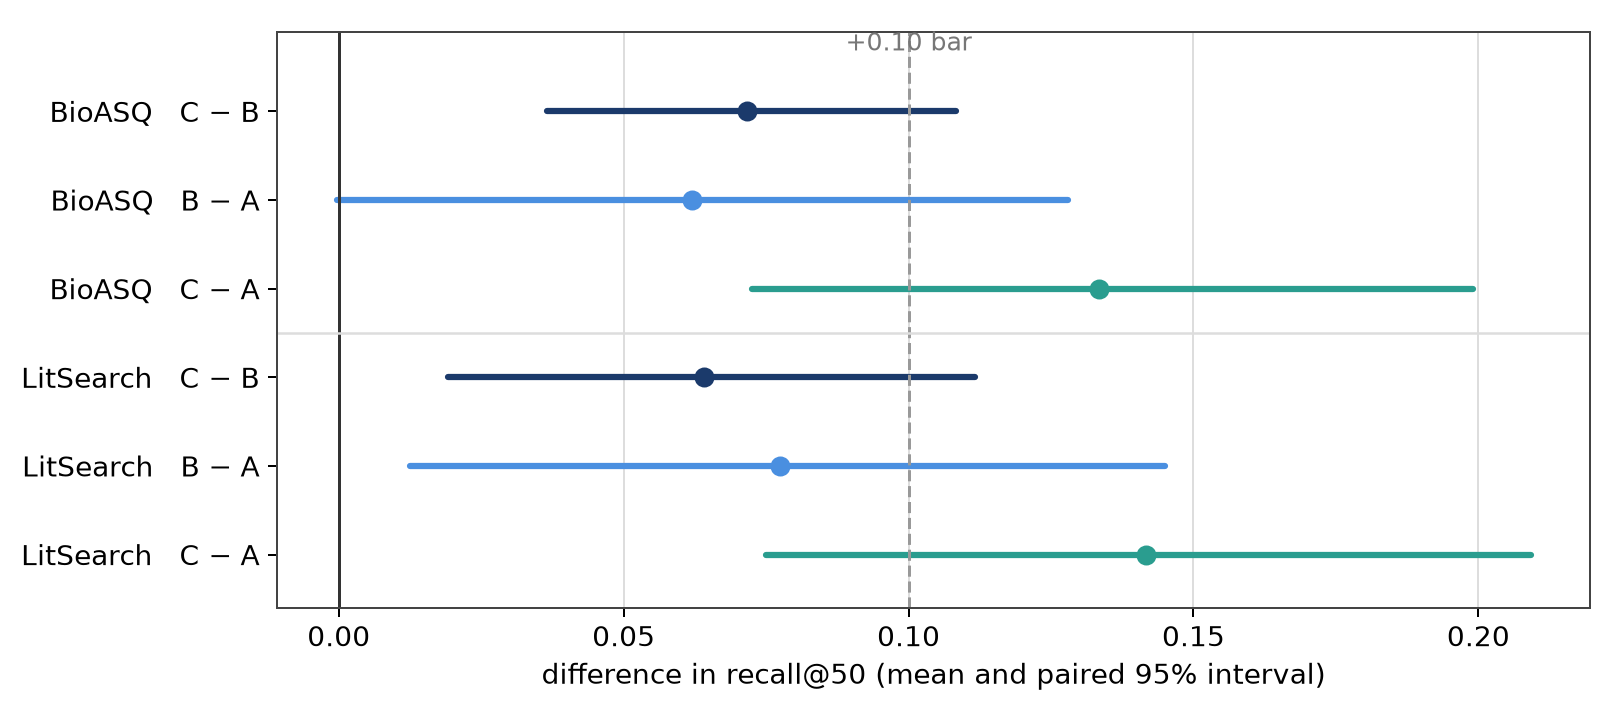
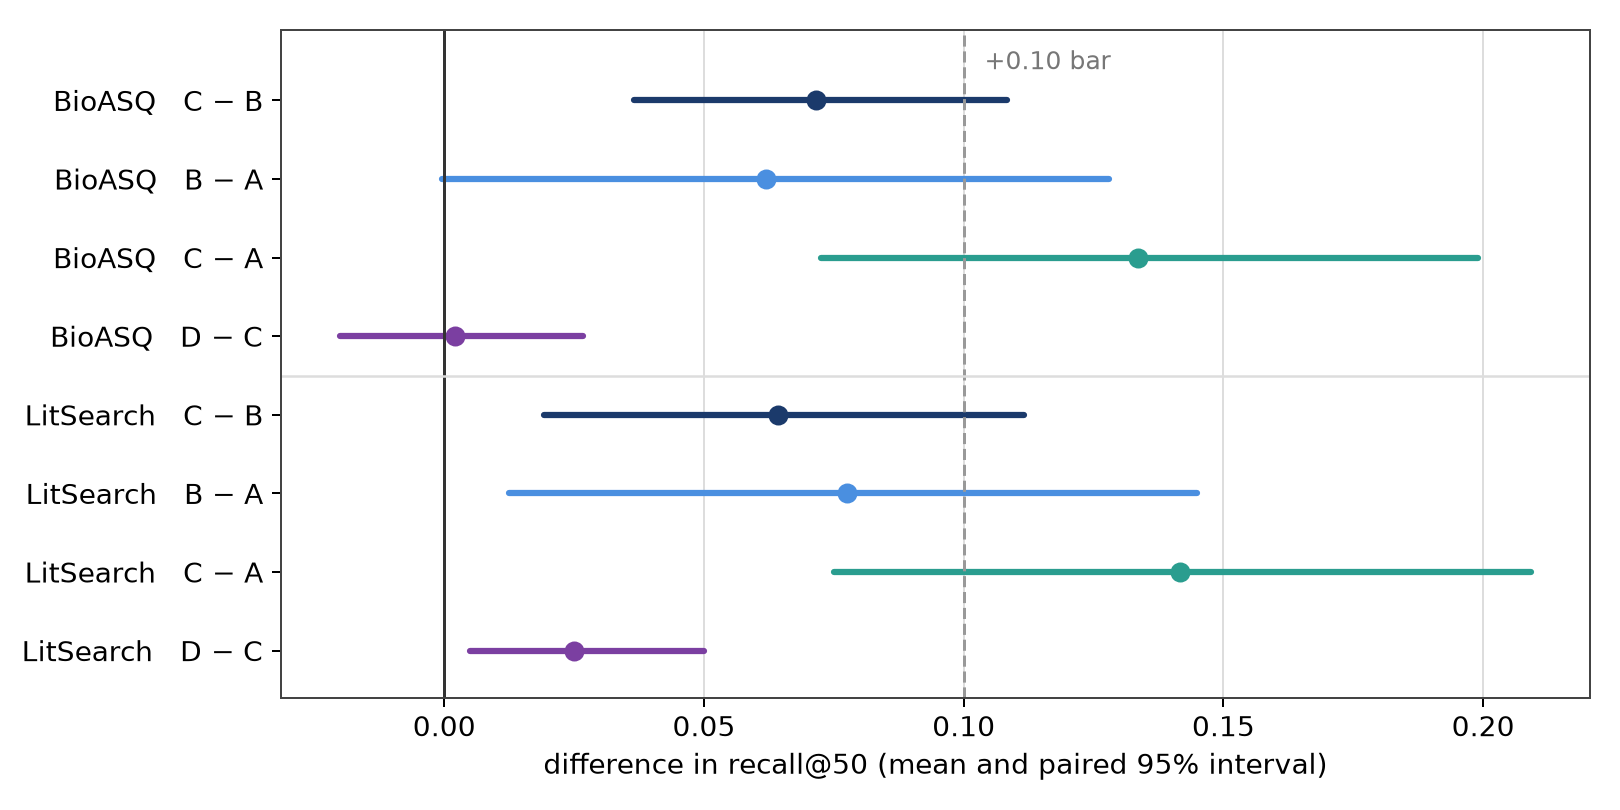
The benchmark page adds today's ranking replayed on the stored pools: close to the earlier reranked list on BioASQ, about 0.025 higher at 50 results on LitSearch

diff --git a/scripts/benchmark/figures.py b/scripts/benchmark/figures.py
@@ -1,10 +1,10 @@
-"""Draw the two figures in docs/benchmark.md from the stored scoring output of each set's run.
+"""Draw the benchmark figures from the stored runs and the later ranking replay.
 
     uv run --with matplotlib python scripts/benchmark/figures.py
 
-matplotlib is not a project dependency, so the command above brings it in for this run only. Every number is read
-from notes/<set>/report.json; nothing is typed in here except Elicit's published BioASQ figures, which have no run
-of ours behind them.
+matplotlib is not a project dependency, so the command above brings it in for this run only. Benchmark values are read
+from notes/<set>/report.json and the rerank replay's results.json. Only Elicit's published BioASQ figures are typed
+here because they have no run of ours behind them.
 """
 from __future__ import annotations
 
@@ -21,14 +21,16 @@ KS = [10, 20, 50, 100, 200]
 SETS = [("bioasq", "BioASQ (100 questions)"), ("litsearch", "LitSearch (200 questions)")]
 ELICIT = {10: 0.390, 20: 0.483, 50: 0.603, 100: 0.670}  # published, BioASQ only, no figure at 200
 
-GREY, BLUE, NAVY, ORANGE, TEAL = "#9a9a9a", "#4a8fe0", "#1b3a6b", "#e0802f", "#2a9d8f"
+GREY, BLUE, NAVY, ORANGE, TEAL, PURPLE = "#9a9a9a", "#4a8fe0", "#1b3a6b", "#e0802f", "#2a9d8f", "#7b3fa1"
 ARMS = (("openalex", GREY, "o", "A: plain OpenAlex query"),
         ("deixis_fused", BLUE, "s", "B: DEIXIS, reranker off"),
-        ("deixis_rerank", NAVY, "D", "C: DEIXIS, reranker on"))
-# The three contrasts of the gains figure, in the order they are drawn.
+        ("deixis_rerank", NAVY, "D", "C: DEIXIS, reranker on"),
+        ("D", PURPLE, "P", "D: today's ranking, same pool"))
+# Draw the stored contrasts, then the replay contrast.
 CONTRASTS = (("deixis_rerank_minus_deixis_fused", "C − B", NAVY),
              ("deixis_fused_minus_openalex", "B − A", BLUE),
-             ("deixis_rerank_minus_openalex", "C − A", TEAL))
+             ("deixis_rerank_minus_openalex", "C − A", TEAL),
+             ("D-C", "D − C", PURPLE))
 
 plt.rcParams.update({"font.size": 11, "axes.grid": True, "grid.color": "#dddddd",
                      "grid.linewidth": 0.8, "axes.edgecolor": "#444444"})
@@ -39,13 +41,20 @@ def report(name):
     return json.loads((ROOT / "notes" / name / "report.json").read_text())
 
 
-def recall_figure(out):
+def replay():
+    """The ranking replay's stored scores and paired differences."""
+    path = ROOT / "notes/2026-11-13-benchmark-rerank-replay/out/results.json"
+    return json.loads(path.read_text())
+
+
+def recall_figure(out, replay_scores):
     """recall@k for every arm, one panel per set."""
-    fig, axes = plt.subplots(1, 2, figsize=(11, 4.2))
+    fig, axes = plt.subplots(1, 2, figsize=(11, 4.7))
     for ax, (name, title) in zip(axes, SETS):
         scores = report(name)
         for arm, color, marker, label in ARMS:
-            ys = [scores[arm][f"@{k}"] for k in KS]
+            source = replay_scores["sets"][name]["recall"]["D"] if arm == "D" else scores[arm]
+            ys = [source[f"@{k}"] for k in KS]
             ax.plot(range(len(KS)), ys, color=color, marker=marker, markersize=6, linewidth=2, label=label)
         if name == "bioasq":  # the only set Elicit publishes
             ks = [k for k in KS if k in ELICIT]
@@ -63,26 +72,27 @@ def recall_figure(out):
             if label not in labels:
                 handles.append(handle)
                 labels.append(label)
-    fig.legend(handles, labels, loc="lower center", ncol=4, frameon=False, bbox_to_anchor=(0.5, -0.02))
-    fig.tight_layout(rect=(0, 0.07, 1, 1))
+    fig.legend(handles, labels, loc="lower center", ncol=3, frameon=False, bbox_to_anchor=(0.5, 0.01))
+    fig.tight_layout(rect=(0, 0.17, 1, 1))
     fig.savefig(out, dpi=180)
 
 
-def gains_figure(out):
+def gains_figure(out, replay_scores):
     """Paired difference in recall@50 with its 95% interval, one row per set and contrast."""
     rows = []
     for name, title in SETS:
         scores = report(name)
         for key, mark, color in CONTRASTS:
-            value = scores[key]["@50"]
+            source = replay_scores["sets"][name]["diffs"] if key == "D-C" else scores
+            value = source[key]["@50"]
             rows.append((f"{title.split(' (')[0]}   {mark}", value["mean"], value["low"], value["high"], color))
-    fig, ax = plt.subplots(figsize=(9, 4.0))
+    fig, ax = plt.subplots(figsize=(9, 4.5))
     for y, (_, mean, low, high, color) in enumerate(rows):
         ax.plot([low, high], [y, y], color=color, linewidth=2.5, solid_capstyle="round")
         ax.plot([mean], [y], marker="o", markersize=7, color=color)
     ax.axvline(0, color="#333333", linewidth=1.2)
     ax.axvline(0.10, color="#999999", linewidth=1.2, linestyle="--")  # the project's bar against a plain query
-    ax.text(0.10, -0.62, "+0.10 bar", color="#777777", ha="center", va="bottom", fontsize=10)
+    ax.text(0.104, -0.48, "+0.10 bar", color="#777777", ha="left", va="center", fontsize=10)
     ax.axhline(len(CONTRASTS) - 0.5, color="#dddddd", linewidth=1)  # between the two sets
     ax.set_yticks(range(len(rows)), [row[0] for row in rows])
     ax.set_ylim(len(rows) - 0.4, -0.9)  # first row at the top, room above it for the bar label
@@ -94,8 +104,9 @@ def gains_figure(out):
 
 
 def main():
-    recall_figure(ROOT / "assets/benchmark-recall.png")
-    gains_figure(ROOT / "assets/benchmark-gains.png")
+    replay_scores = replay()
+    recall_figure(ROOT / "assets/benchmark-recall.png", replay_scores)
+    gains_figure(ROOT / "assets/benchmark-gains.png", replay_scores)
     print("assets/benchmark-recall.png, assets/benchmark-gains.png")
 
 

diff --git a/docs/benchmark.md b/docs/benchmark.md
@@ -13,6 +13,8 @@ not measured.
 
 - DEIXIS finds more gold papers than one plain OpenAlex query on both sets.
 - The reranker helps on both sets.
+- Replaying today's ranking on the same pools adds little on BioASQ; on LitSearch it adds about 0.025 at 50 results,
+  with a paired interval above zero.
 - On BioASQ, DEIXIS with the reranker is close to Elicit's published figures
   ([Evaluating Elicit's paper search](https://elicit.com/blog/evaluating-elicit-paper-search)).
 
@@ -23,6 +25,9 @@ not measured.
 - **A**: one OpenAlex keyword query written by the same model, first 200 results (Elicit's baseline).
 - **B**: DEIXIS with the reranker off (the fused order).
 - **C**: DEIXIS with the reranker on. B and C come from the same run, so the rerank is the only difference between them.
+- **D**: today's ranking (rerank rule version 6) replayed later on the same 18 Oct questions, queries and retrieved
+  records. It does not measure the newer phrase or shared search routes because their records are absent from these
+  pools; the abstract lookup before reranking was not replayed either.
 
 Settings: Voyage `voyage-4-lite` for semantic similarity, Voyage `rerank-3-lite` for reranking (pool factor 4),
 Standard depth, Claude Sonnet 5.5 at medium effort writing the queries. The harness writes these into a temporary data
@@ -43,6 +48,8 @@ difference.
 | A: plain OpenAlex | 0.281 | 0.364 | 0.489 | 0.607 | 0.674 |
 | B: DEIXIS, reranker off | 0.353 | 0.445 | 0.546 | 0.657 | 0.744 |
 | C: DEIXIS, reranker on | **0.392** | **0.502** | **0.618** | **0.693** | **0.744** |
+| D: today's ranking, same pool | 0.415 | 0.505 | 0.620 | 0.694 | 0.745 |
+| D − C | +0.023 (−0.017 to +0.066) | +0.002 (−0.023 to +0.027) | +0.002 (−0.020 to +0.027) | +0.002 (−0.011 to +0.015) | +0.000 (−0.009 to +0.010) |
 | C − B | +0.039 (−0.005 to +0.084) | +0.058 (+0.012 to +0.105) | +0.072 (+0.037 to +0.108) | +0.036 (+0.021 to +0.054) | 0 |
 | C − A | +0.114 (+0.048 to +0.180) | +0.142 (+0.076 to +0.209) | +0.133 (+0.072 to +0.199) | +0.092 (+0.037 to +0.149) | +0.077 (+0.028 to +0.129) |
 | [Elicit, as published](https://elicit.com/blog/evaluating-elicit-paper-search) (5,486 questions) | 0.390 | 0.483 | 0.603 | 0.670 | |
@@ -50,10 +57,13 @@ difference.
 | A: plain OpenAlex | 0.394 | 0.449 | 0.561 | 0.621 | 0.669 |
 | B: DEIXIS, reranker off | 0.474 | 0.578 | 0.636 | 0.708 | 0.738 |
 | C: DEIXIS, reranker on | **0.557** | **0.612** | **0.700** | **0.725** | **0.738** |
+| D: today's ranking, same pool | 0.547 | 0.641 | 0.725 | 0.738 | 0.748 |
+| D − C | −0.011 (−0.057 to +0.034) | +0.029 (−0.008 to +0.069) | +0.025 (+0.005 to +0.050) | +0.013 (+0.000 to +0.028) | +0.010 (+0.000 to +0.025) |
 | C − B | +0.083 (+0.026 to +0.142) | +0.033 (−0.020 to +0.085) | +0.064 (+0.019 to +0.112) | +0.018 (−0.005 to +0.043) | 0 |
 | C − A | +0.166 (+0.095 to +0.237) | +0.165 (+0.095 to +0.235) | +0.142 (+0.075 to +0.209) | +0.107 (+0.040 to +0.174) | +0.072 (+0.003 to +0.142) |
 
 - The reranker reorders only the top of the list, so B and C are equal at 200.
+- D − C uses the replayed C scores; replayed A, B and C differ from the stored report by at most 0.00125.
 - BioASQ: Elicit's figures come from all 5,486 questions and ours from a sample, so the two are not compared
   statistically.
 - LitSearch: almost every request has one gold paper, so each question scores 0 or 1 and the intervals stay wide.
